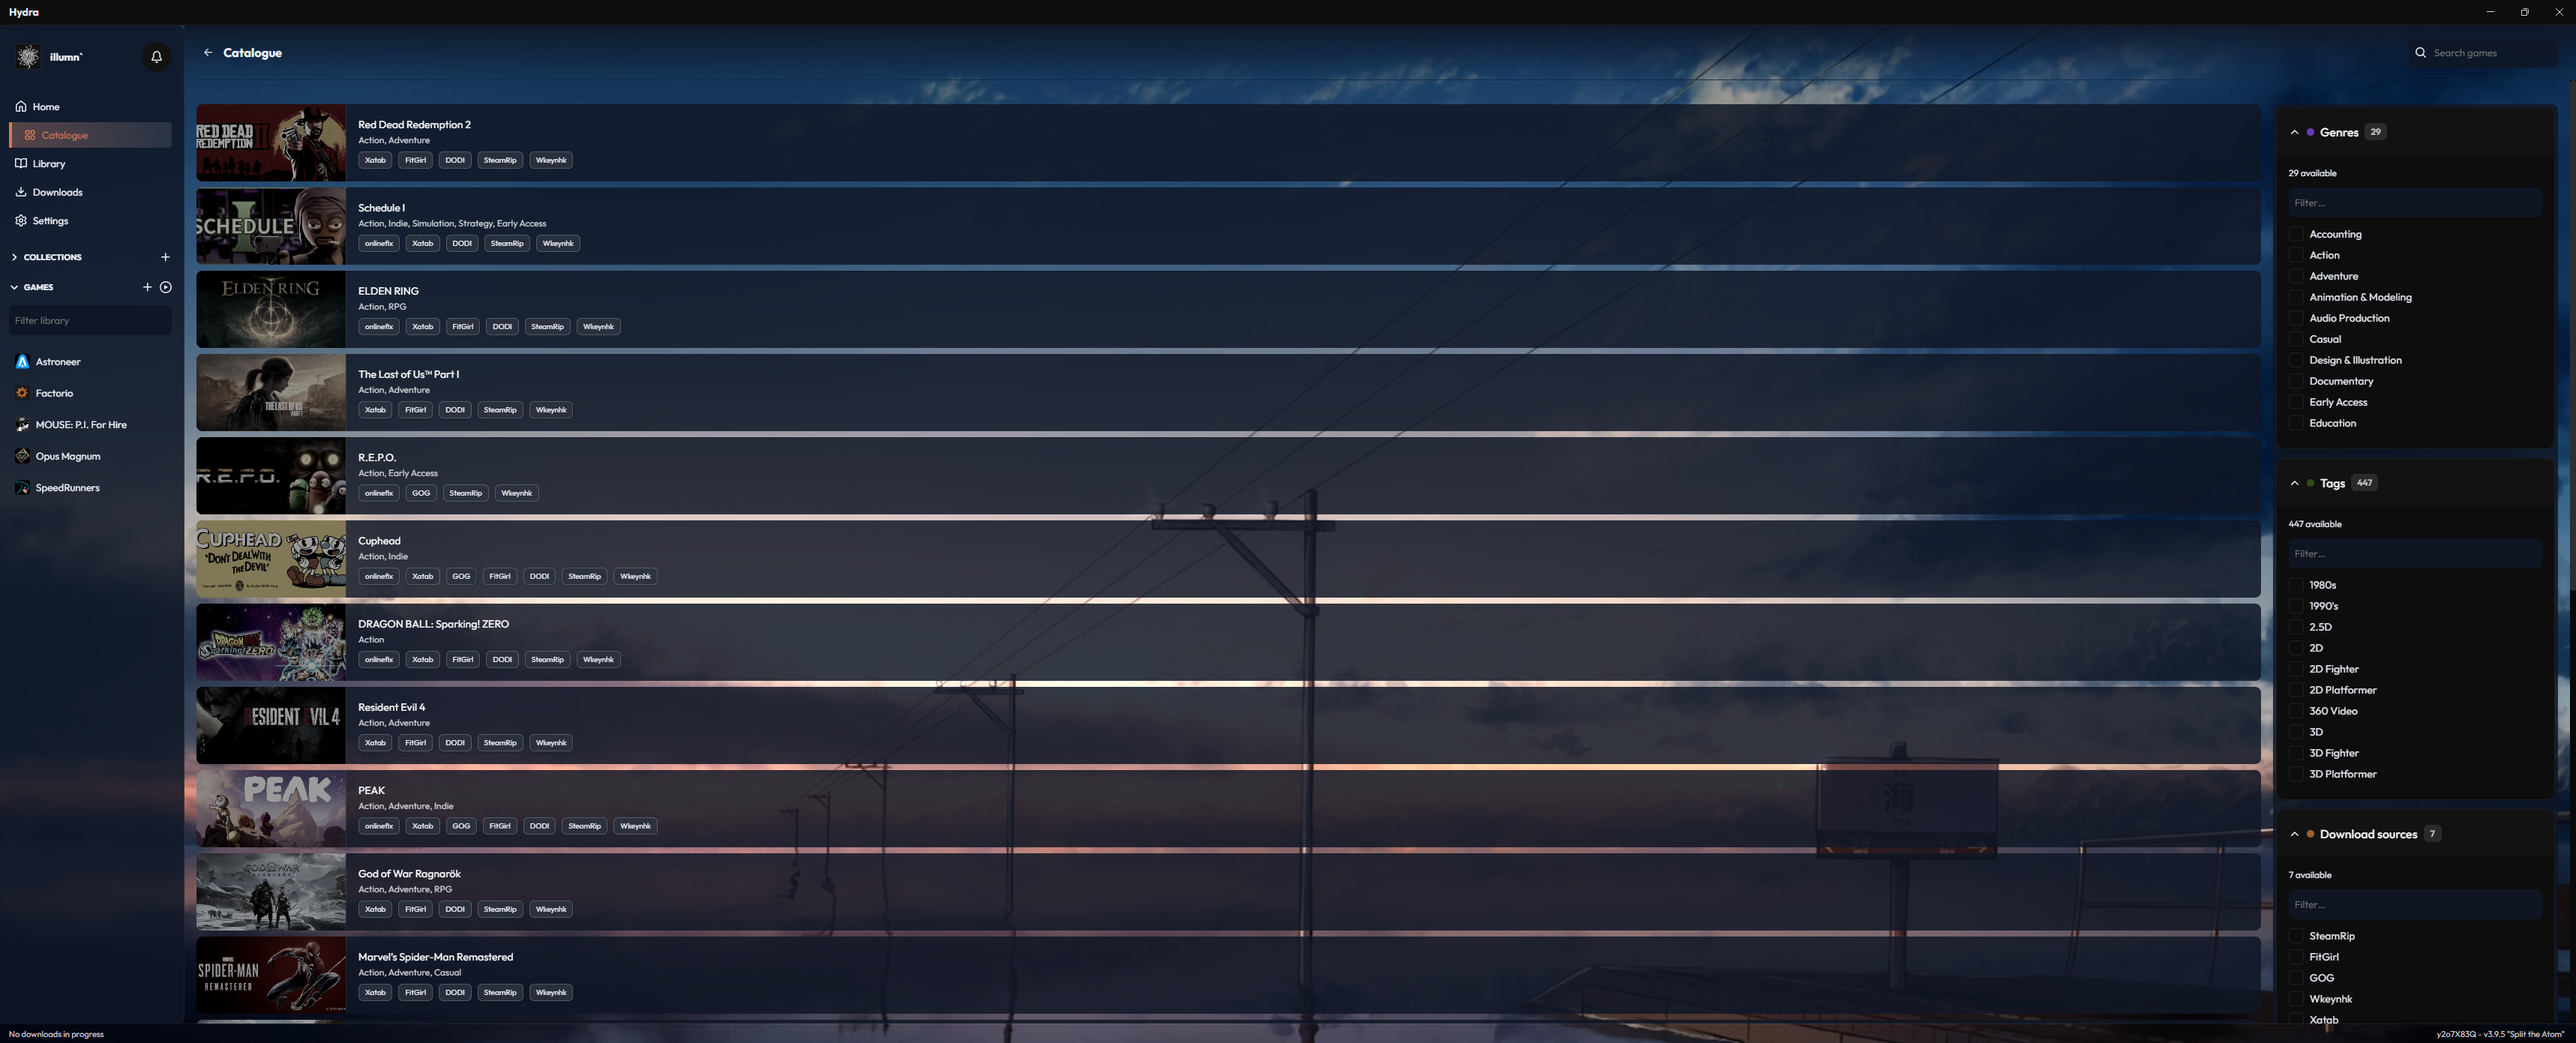
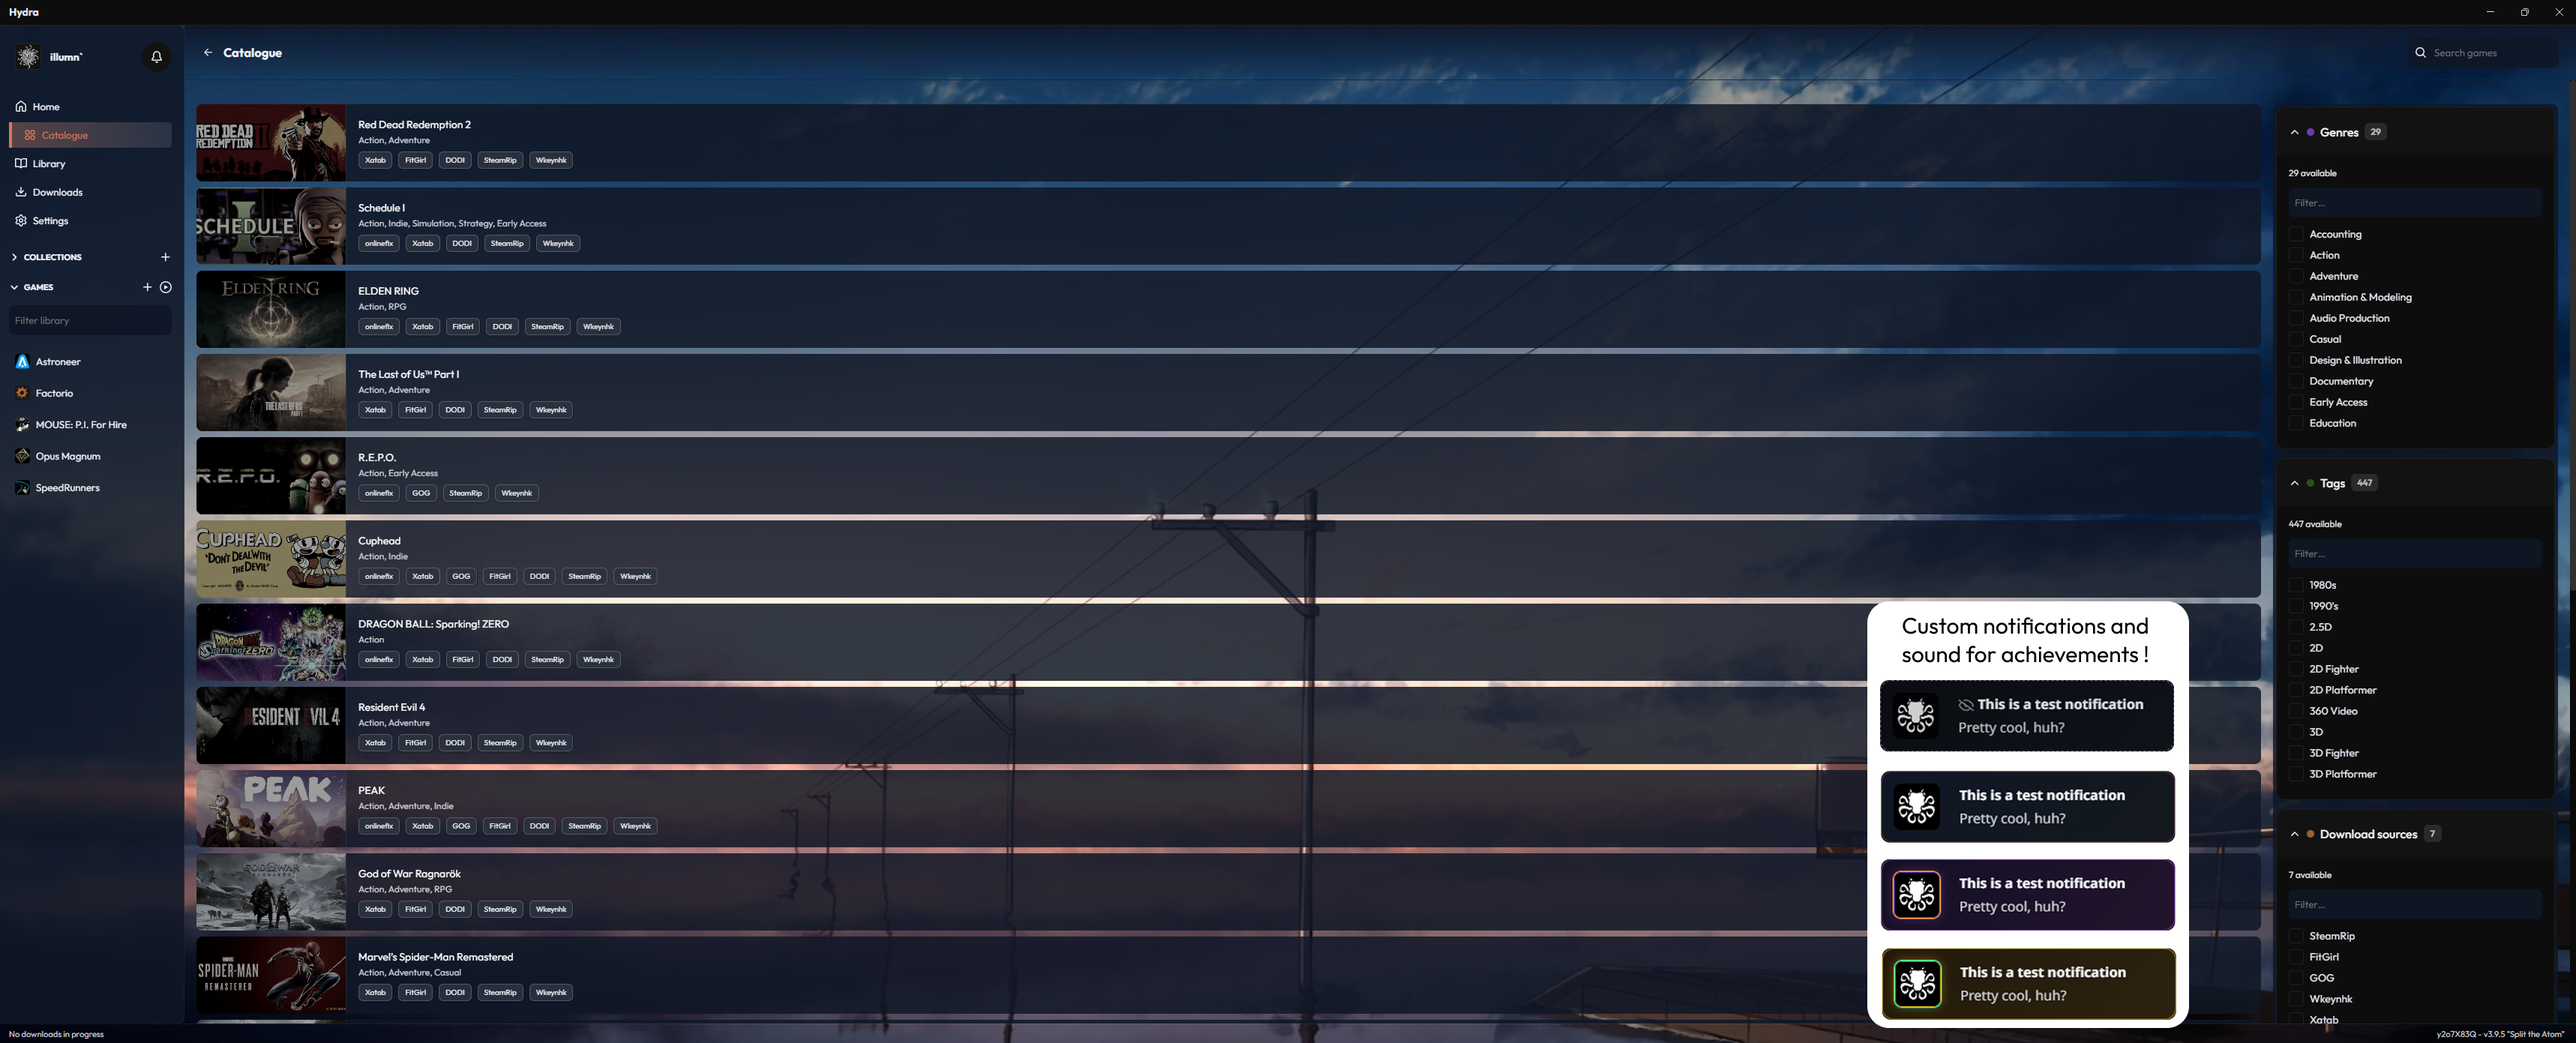
Add Sunset Ocean theme

Changed region(s): [[0.7164, 0.5564, 0.8722, 0.9892]]

diff --git a/sunset-ocean-z5qAn9x5/theme.css b/sunset-ocean-z5qAn9x5/theme.css
@@ -312,6 +312,31 @@ body {
     border-radius: 20px !important;
 }
 
+.achievement-notification--rare .achievement-notification__container::before,
+.achievement-notification--rare .achievement-notification__container::after,
+.achievement-notification--platinum .achievement-notification__container::before,
+.achievement-notification--platinum .achievement-notification__container::after {
+    display: none !important;
+}
+
+.achievement-notification--hidden .achievement-notification__container {
+    background: linear-gradient(135deg, rgba(10, 12, 18, 0.95) 0%, rgba(15, 18, 25, 0.95) 100%) !important;
+    border: 1px dashed rgba(255, 255, 255, 0.3) !important;
+    box-shadow: none !important;
+}
+
+.achievement-notification--hidden .achievement-notification__icon {
+    filter: grayscale(100%) opacity(0.8) !important;
+}
+
+.achievement-notification--hidden .achievement-notification__hidden-icon {
+    background: rgba(10, 12, 18, 0.8) !important;
+}
+
+.achievement-notification--hidden .achievement-notification__text-container {
+    opacity: 0.9 !important;
+}
+
 .achievement-notification--rare .achievement-notification__container {
     background: linear-gradient(135deg, rgba(20, 15, 38, 0.95) 0%, rgba(35, 20, 45, 0.95) 100%) !important;
     border-color: rgba(180, 80, 255, 0.5) !important;
